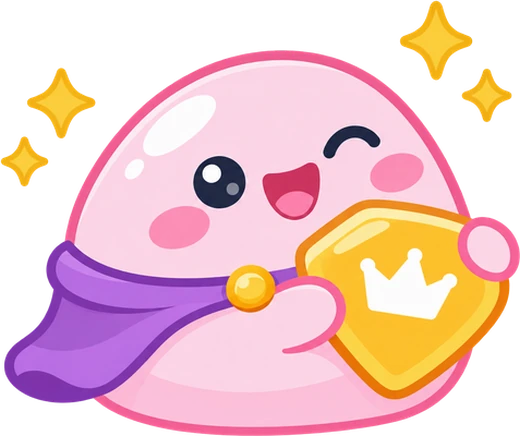
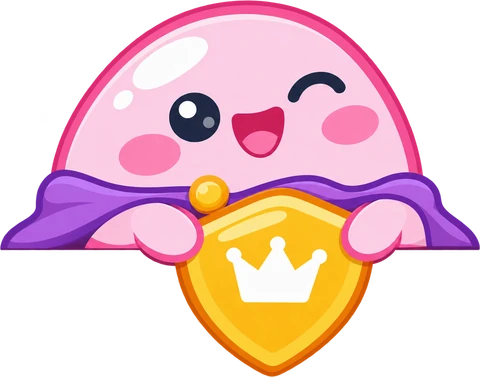
feat(plans): Mochi Plus hangs over the Plus card holding its shield
- New plus-mochi.webp generated in ChatGPT from the app's Mochi Plus picture: Mochi
  Plus leaning over the card's top edge, holding its crown shield like a badge on
  the card, cape draped over the edge, no yellow sparkles
- Placed so the picture's edge sits on the card's top edge, centered on the card;
  the card gets more top padding so the shield doesn't cover the title

Claude-Session: https://claude.ai/code/session_01ToUdgrAjtHUxi377A78jyL

diff --git a/src/features/landing/components/sections/PlansSection.tsx b/src/features/landing/components/sections/PlansSection.tsx
@@ -31,10 +31,10 @@ export function PlansSection() {
           <ul className="grid gap-6">{FREE_FEATURE_IDS.map((id) => <li key={id} className={PLAN_ITEM}><CheckBadge className="-mt-1 size-15" />{t(`freeFeatures.${id}`)}</li>)}</ul>
         </div>
 
-        <div className="absolute z-3 left-704 top-[calc(var(--section-space)+30*var(--spacing))] w-120 max-poster:[--spacing:calc(min(100vw-32px,420px)/262)] max-poster:relative max-poster:left-auto max-poster:top-auto max-poster:-mb-14 max-poster:mt-[22px] max-poster:w-120" aria-hidden="true">
-          <Image className="h-auto w-full" src={LANDING_ASSETS.plusMochi} alt="" width={520} height={436} sizes="12vw" />
+        <div className="absolute z-3 left-[calc(641*var(--spacing)-72*var(--spacing))] top-[calc(var(--section-space)-73*var(--spacing))] w-144 max-poster:[--spacing:calc(min(100vw-32px,420px)/262)] max-poster:relative max-poster:left-auto max-poster:top-auto max-poster:mt-[22px] max-poster:-mb-[calc(37*var(--spacing))] max-poster:w-144" aria-hidden="true">
+          <Image className="h-auto w-full" src={LANDING_ASSETS.plusMochi} alt="" width={480} height={377} sizes="(max-width: 1099px) 40vw, 12vw" />
         </div>
-        <div className={cn(PLAN, "ml-6 w-262 bg-plans-plus-bg max-poster:ml-0 text-white")}>
+        <div className={cn(PLAN, "ml-6 w-262 pt-44 bg-plans-plus-bg max-poster:ml-0 text-white")}>
           <h3 className={PLAN_TITLE}>{t("plusName")} — <span className="inline-grid h-22 place-items-center rounded-u-7 bg-white px-10 text-u-12.5 text-plans-price-pill-text">{PLUS_PRICE ?? common("optional")}</span></h3>
           <ul className="grid gap-8 pr-52">{PLUS_FEATURE_IDS.map((id) => <li key={id} className={PLAN_ITEM}><CheckBadge className="-mt-1 size-15" />{t(`plusFeatures.${id}`)}</li>)}</ul>
         </div>
